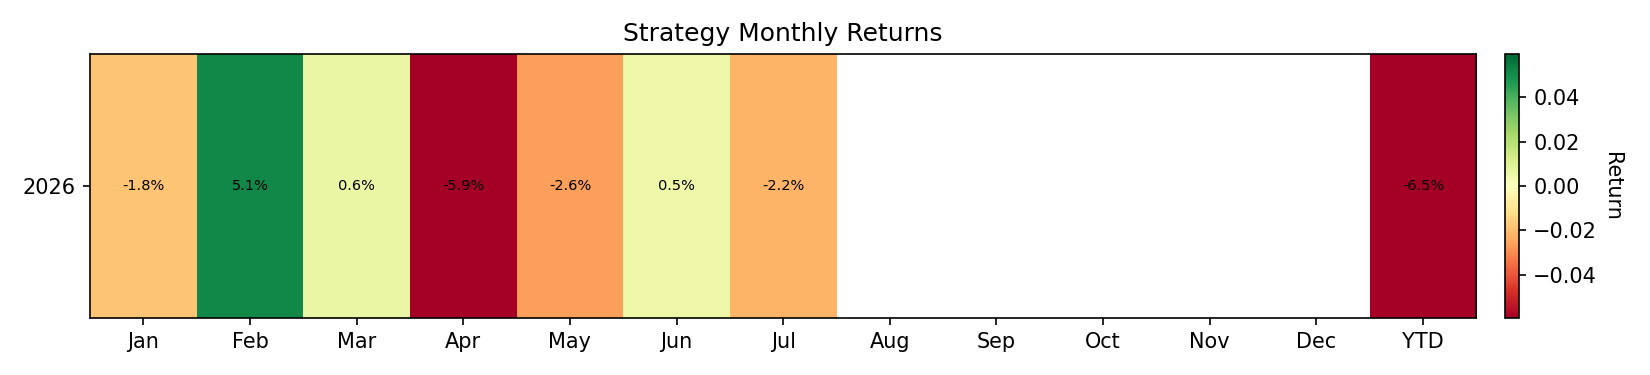
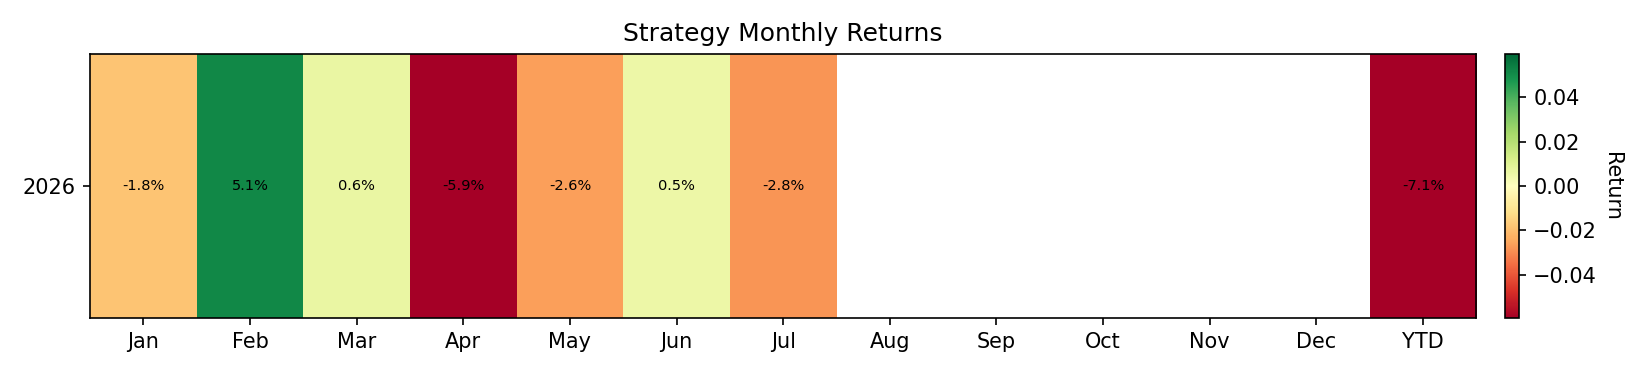
Update reports: 2026-07-14 00:05:05 UTC

Changed region(s): [[0.4327, 0.1467, 0.5255, 0.8507], [0.8345, 0.4693, 0.8655, 0.4987]]

diff --git a/README.md b/README.md
@@ -22,28 +22,28 @@ All results are live and reported net of transaction costs and slippage.
 - CSV: `metrics_strategy.csv`
 
 <!-- METRICS_START -->
-| metric                       |       values |
-|:-----------------------------|-------------:|
-| Number of Observations       | 167          |
-| Mean Daily Return            |  -0.00036654 |
-| Daily Volatility             |   0.0086987  |
-| Mean Annualized Return       |  -0.133787   |
-| Annualized Volatility        |   0.166188   |
-| Maximum Drawdown             |  -0.156146   |
-| Max Drawdown Duration (Days) | 138          |
-| Sharpe                       |  -0.805033   |
-| Sortino                      |  -1.10393    |
-| Calmar                       |  -0.856809   |
-| CAGR                         |  -0.137137   |
-| Skewness                     |   0.692779   |
-| Excess Kurtosis              |   8.49147    |
-| Win Rate                     |   0.473054   |
-| Profit Factor                |   0.873895   |
-| VaR 1%                       |  -0.0278841  |
-| CVaR 1%                      |  -0.030925   |
-| VaR 5%                       |  -0.0111083  |
-| CVaR 5%                      |  -0.0208176  |
-| Correlation with BTC         |  -0.0132703  |
+| metric                       |        values |
+|:-----------------------------|--------------:|
+| Number of Observations       | 168           |
+| Mean Daily Return            |  -0.000402005 |
+| Daily Volatility             |   0.00868479  |
+| Mean Annualized Return       |  -0.146732    |
+| Annualized Volatility        |   0.165923    |
+| Maximum Drawdown             |  -0.156146    |
+| Max Drawdown Duration (Days) | 139           |
+| Sharpe                       |  -0.884338    |
+| Sortino                      |  -1.21756     |
+| Calmar                       |  -0.939709    |
+| CAGR                         |  -0.148202    |
+| Skewness                     |   0.702336    |
+| Excess Kurtosis              |   8.50689     |
+| Win Rate                     |   0.470238    |
+| Profit Factor                |   0.862655    |
+| VaR 1%                       |  -0.0278544   |
+| CVaR 1%                      |  -0.030925    |
+| VaR 5%                       |  -0.0110711   |
+| CVaR 5%                      |  -0.0208176   |
+| Correlation with BTC         |  -0.0132411   |
 <!-- METRICS_END -->
 
 ## Sharpe Statistics
@@ -55,14 +55,14 @@ All results are live and reported net of transaction costs and slippage.
 | metric                     |   values |
 |:---------------------------|---------:|
 | alpha                      |   0.05   |
-| t-statistic                |  -0.5445 |
-| p-value                    |   0.5868 |
-| Daily Sharpe Ratio         |  -0.0421 |
-| Annualized Sharpe Ratio    |  -0.805  |
-| Sharpe Standard Error      |   1.5077 |
-| C.I. Lower Bound           |  -3.7601 |
-| C.I. Upper Bound           |   2.15   |
-| Bootstrap C.I. Lower Bound |  -4.3589 |
-| Bootstrap C.I. Upper Bound |   3.0472 |
+| t-statistic                |  -0.6    |
+| p-value                    |   0.5493 |
+| Daily Sharpe Ratio         |  -0.0463 |
+| Annualized Sharpe Ratio    |  -0.8843 |
+| Sharpe Standard Error      |   1.5063 |
+| C.I. Lower Bound           |  -3.8367 |
+| C.I. Upper Bound           |   2.068  |
+| Bootstrap C.I. Lower Bound |  -4.424  |
+| Bootstrap C.I. Upper Bound |   3.0094 |
 <!-- SHARPE_END -->
 
